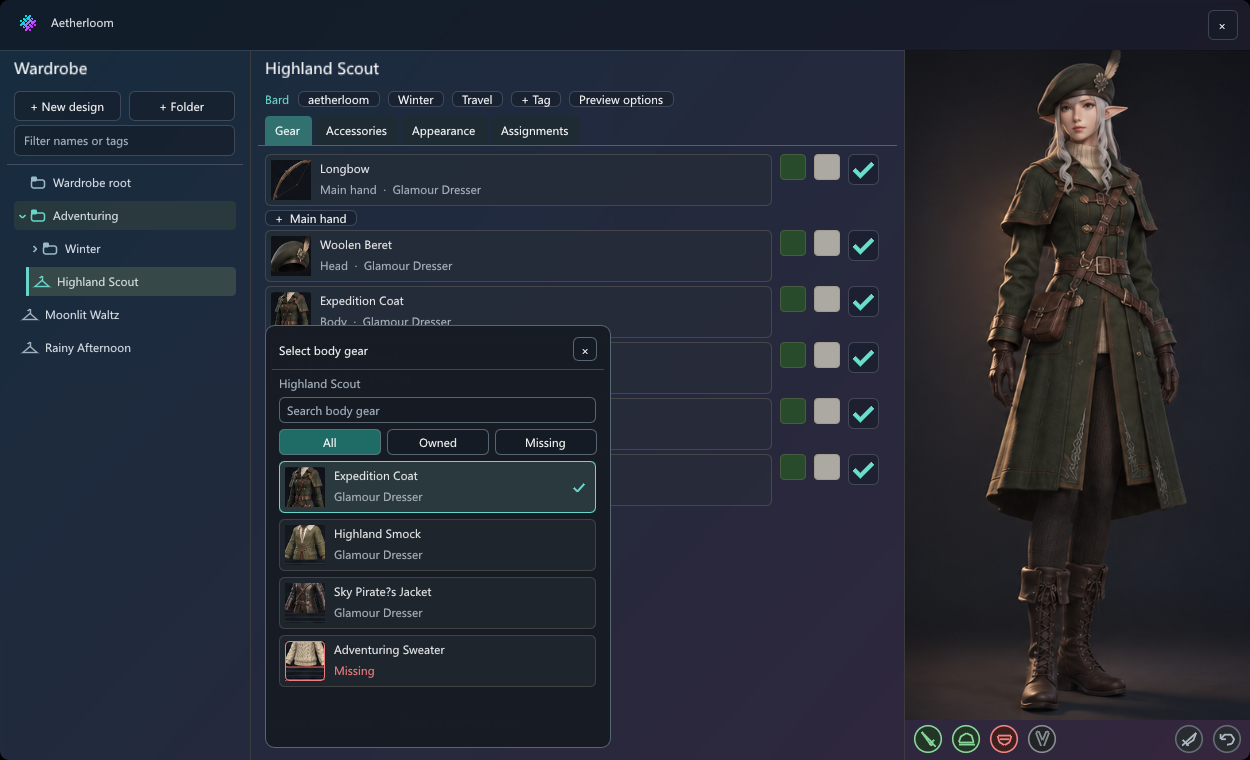
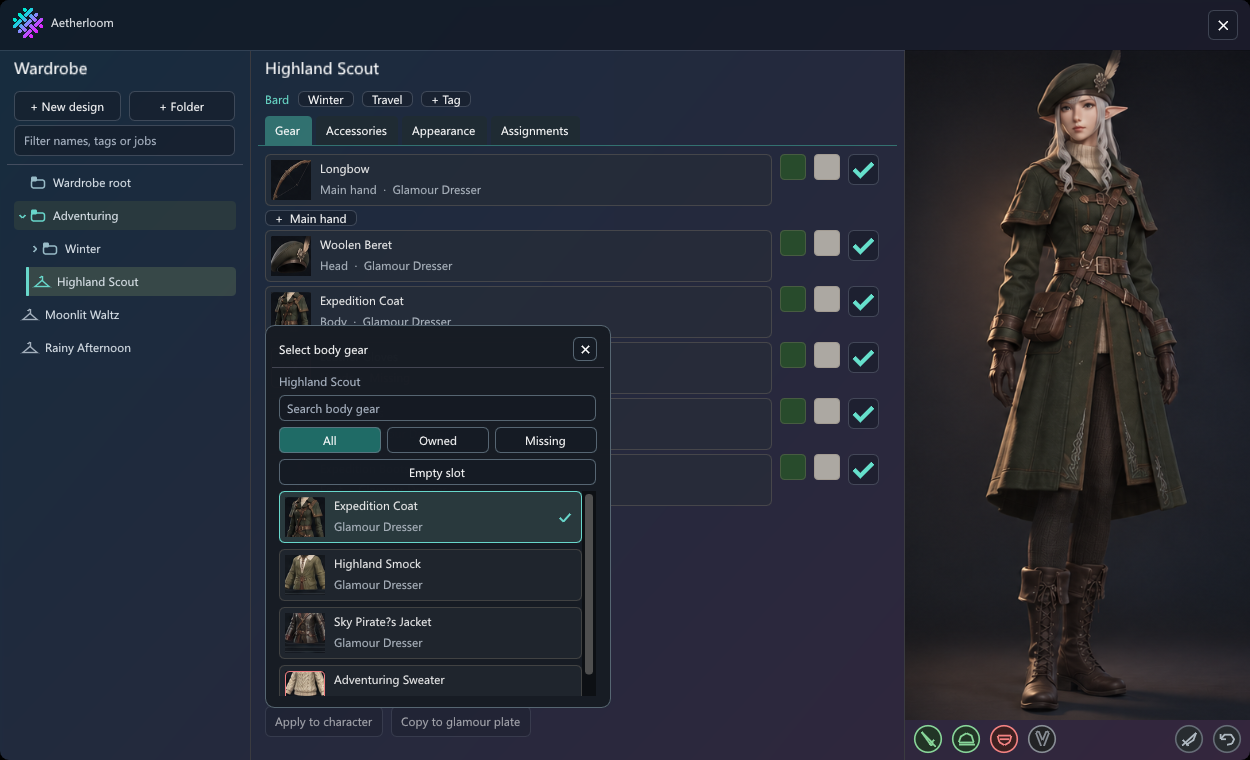
Polish shared picker controls and render wardrobe interactions

diff --git a/WardrobePreview/WardrobeFixture.cs b/WardrobePreview/WardrobeFixture.cs
@@ -13,8 +13,10 @@ internal sealed class WardrobeFixture:IWardrobe
     public WardrobeLayout Layout=null!;
     public ImTextureID? HeaderMark {get;}
     public Guid Selected{get;private set;}
-    public string Title=>designs.First(d=>d.Id==Selected).Name;
-    public string[] Tags=>designs.First(d=>d.Id==Selected).Tags;
+    public string Title=>designs.FirstOrDefault(d=>d.Id==Selected).Name??"";
+    public string[] Tags=>designs.FirstOrDefault(d=>d.Id==Selected).Tags??[];
+    public IReadOnlyList<string> KnownTags=>designs.SelectMany(d=>d.Tags).Distinct(StringComparer.OrdinalIgnoreCase).ToArray();
+    public IEnumerable<string> JobTerms(Guid id)=>["Bard","BRD"];
     public string Message=>"";
     private readonly List<string> folders=["[AL] Adventuring","[AL] Adventuring/Winter"];
     private readonly Dictionary<Guid,string> paths=[];
@@ -46,7 +48,8 @@ internal sealed class WardrobeFixture:IWardrobe
         }
         for(int i=0;i<3;i++)art[(uint)(120+i)]=Cut(items,587,528+i*83,60,60);
         foreach(var name in new[]{"Highland Scout","Rainy Afternoon","Winter Courier","Moonlit Waltz"})designs.Add((Guid.NewGuid(),name,["aetherloom","Winter","Travel"]));
-        Selected=designs[0].Id;paths[Selected]="[AL] Adventuring";paths[designs[2].Id]="[AL] Adventuring/Winter";
+        designs[1]=(designs[1].Id,designs[1].Name,["aetherloom","Casual","City"]);
+        Selected=designs[0].Id;assigned[("Jobs",1)]=Selected;assigned[("Zones",1)]=Selected;assigned[("Jobs",2)]=designs[1].Id;paths[Selected]="[AL] Adventuring";paths[designs[2].Id]="[AL] Adventuring/Winter";
         using var samples=typeof(WardrobeFixture).Assembly.GetManifestResourceStream("appearance-palette.bin")!;
         samples.ReadExactly(appearancePalette);
         using var stream=typeof(WardrobeFixture).Assembly.GetManifestResourceStream("stains.tsv")!;
@@ -83,14 +86,28 @@ internal sealed class WardrobeFixture:IWardrobe
         return folders.Remove(path);
     }
     public void MoveDesign(Guid id,string folder)=>paths[id]=folder;
+    public bool RenameDesign(Guid id,string name)
+    {
+        var index=designs.FindIndex(d=>d.Id==id);if(index<0)return false;
+        designs[index]=(id,name,designs[index].Tags);return true;
+    }
+    public bool DeleteDesign(Guid id)
+    {
+        if(designs.RemoveAll(d=>d.Id==id)==0)return false;
+        paths.Remove(id);
+        foreach(var entry in assigned.Where(a=>a.Value==id).ToArray())assigned.Remove(entry.Key);
+        if(Selected==id)Selected=designs.FirstOrDefault().Id;
+        return true;
+    }
     public void Tag(string tag,bool add){var i=designs.FindIndex(x=>x.Id==Selected);designs[i]=(Selected,Title,add?[..Tags,tag]:Tags.Where(x=>x!=tag).ToArray());}
     public IEnumerable<WardrobeSlot> Slots(bool accessories)=>rows.Where(x=>accessories==(x.Key is "Ears" or "Neck" or "Wrists" or "RFinger" or "LFinger"));
     public IEnumerable<WardrobeItem> Catalog(string key){
         var item=rows.First(r=>r.Key==key).Item;yield return item;
+        if(key!="Body")yield break;
         foreach(var (name,id) in new[]{("Highland Smock",22u),("Sky Pirate’s Jacket",23u),("Adventuring Sweater",25u)})yield return new(id,name,key=="Body"?(id==25?122u:id+98):item.Icon,2);
     }
     private void Change(string key,Func<WardrobeSlot,WardrobeSlot> change){int i=rows.FindIndex(x=>x.Key==key);rows[i]=change(rows[i]);}
-    public void SetItem(string key,uint id)=>Change(key,s=>s with{Item=Catalog(key).First(i=>i.Id==id)});
+    public void SetItem(string key,uint id)=>Change(key,s=>s with{Item=id==0?new(0,"Empty",0,0):Catalog(key).First(i=>i.Id==id),First=id==0?(byte)0:s.First,Second=id==0?(byte)0:s.Second,Apply=true});
     public void SetDye(string key,int channel,byte id)=>Change(key,s=>channel==0?s with{First=id}:s with{Second=id});
     public void SetApply(string key,bool apply)=>Change(key,s=>s with{Apply=apply});
     public void MainHand(string? remove){if(remove!=null)rows.RemoveAll(x=>x.Key==remove);else rows.Insert(1,new("MainHand/"+Guid.NewGuid(),"Main hand",new(0,"Empty",0,0),0,0,false));}
@@ -106,17 +123,18 @@ internal sealed class WardrobeFixture:IWardrobe
     public bool GroupEnabled(string group)=>enabled.Contains(group);
     public void SetGroupEnabled(string group,bool value){if(value)enabled.Add(group);else enabled.Remove(group);}
     public bool HasCharacter=>true;
-    private readonly Dictionary<string,HashSet<uint>> assigned=new(){["Jobs"]=[1],["Zones"]=[1]};
-    public IEnumerable<(uint Id,string Name)> AssignmentOptions(string type)=>type=="Jobs"?[(1,"Bard"),(2,"Dragoon")]:[(1,"Coerthas Central Highlands"),(2,"Old Gridania")];
-    public IReadOnlyCollection<uint> Assigned(string type)=>assigned[type];
-    public void Assign(string type,uint id,bool enable){if(enable)assigned[type].Add(id);else assigned[type].Remove(id);}
+    private readonly Dictionary<(string Type,uint Id),Guid> assigned=[];
+    public IEnumerable<(uint Id,string Name)> AssignmentOptions(string type)=>type=="Jobs"?[(1,"Bard (BRD)"),(2,"Dragoon (DRG)"),(3,"Warrior (WAR)")]:[(1,"Coerthas Central Highlands"),(2,"Old Gridania"),(3,"The Lavender Beds")];
+    public IReadOnlyCollection<uint> Assigned(string type)=>assigned.Where(p=>p.Key.Type==type && p.Value==Selected).Select(p=>p.Key.Id).ToArray();
+    public string? AssignmentOwner(string type,uint id)=>designs.FirstOrDefault(d=>d.Id==assigned.GetValueOrDefault((type,id))).Name;
+    public void Assign(string type,uint id,bool enable){if(enable)assigned[(type,id)]=Selected;else assigned.Remove((type,id));}
     public ISet<byte> FavoriteDyes{get;}=new HashSet<byte>{5,11,14,21,32};
     public void ToggleFavorite(byte id){if(!FavoriteDyes.Remove(id))FavoriteDyes.Add(id);}
     private readonly Dictionary<string,bool?> display=new(){["Weapon"]=true,["Hat"]=true,["Visor"]=false};
     public bool? DisplayOption(string key)=>display.GetValueOrDefault(key);
     public void ToggleDisplay(string key)=>display[key]=key=="Draw"?DisplayOption(key)!=true:DisplayOption(key) switch{null=>true,true=>false,false=>null};
     public void ResetCamera(){}
-    public void PreviewOptions(){}
+    public void WeaponSelector(){}
     public void DrawPreview(){
         uint id=Layout.Tab switch{"Appearance"=>101u,"Accessories"=>102u,_=>100u};
         float aspect=id==102?2f/3:.735f;

diff --git a/WardrobePreview/Program.cs b/WardrobePreview/Program.cs
@@ -47,9 +47,9 @@ internal sealed class RenderForm(string? scene,string? output):Form
     {
         if(surface==null||layout==null)return;
         var io=ImGui.GetIO();io.DisplaySize=new(ClientSize.Width,ClientSize.Height);io.DeltaTime=.025f;
-        if(scene=="folder-menu" && frame is 2 or 3)
+        if((scene is "folder-menu" or "design-menu") && frame is 2 or 3)
         {
-            io.AddMousePosEvent(84,215);
+            io.AddMousePosEvent(84,scene=="design-menu"?281:215);
             io.AddMouseButtonEvent(1,frame==2);
         }
         if(scene=="folder-drag")
@@ -60,14 +60,26 @@ internal sealed class RenderForm(string? scene,string? output):Form
             if(frame is 4 or 5)io.AddMousePosEvent(80,181);
             if(frame==6)io.AddMouseButtonEvent(0,false);
         }
+        if((scene is "clear-gear" or "clear-accessory") && frame is 5 or 6 or 7)
+        {
+            io.AddMousePosEvent(430,scene=="clear-gear"?473:357);
+            if(frame>=6)io.AddMouseButtonEvent(0,frame==6);
+        }
         ImGui.NewFrame();ImGui.SetNextWindowPos(Vector2.Zero);ImGui.SetNextWindowSize(io.DisplaySize);
         WindowShell.PushHostStyle();ImGui.Begin("Aetherloom",WindowShell.HostFlags|ImGuiWindowFlags.NoResize|ImGuiWindowFlags.NoMove);WindowShell.PopHostStyle();
-        if(frame is 1 or 2)layout.Show(scene switch{"hair" or "paint" or "colors" or "appearance"=>"Appearance","accessories"=>"Accessories","assignments"=>"Assignments",_=>"Gear"},
-            scene switch{"dye" or "dye-neutral"=>"Body-dye0","colors"=>"HairColor","items"=>"Body","hair"=>"Hairstyle","paint"=>"FacePaint",_=>null});
+        if(frame is 1 or 2)layout.Show(scene switch{"hair" or "paint" or "colors" or "appearance"=>"Appearance","accessories" or "earrings" or "clear-accessory"=>"Accessories","assignments" or "jobs" or "zones"=>"Assignments",_=>"Gear"},
+            scene switch{"tags"=>"add-tag","jobs"=>"Jobs","zones"=>"Zones","dye" or "dye-neutral"=>"Body-dye0","colors"=>"HairColor","items" or "clear-gear"=>"Body","earrings" or "clear-accessory"=>"Ears","hair"=>"Hairstyle","paint"=>"FacePaint",_=>null});
         layout.Draw(()=>BeginInvoke(Close));ImGui.End();ImGui.Render();surface.Paint(ClientSize.Width,ClientSize.Height);
-        if(++frame==(scene=="folder-drag"?9:6) && output!=null){
+        if(++frame==(scene is "folder-drag" or "clear-gear" or "clear-accessory"?9:6) && output!=null){
             if(scene=="folder-drag" && !fixture!.Folders.Contains("[AL] Winter"))
                 throw new InvalidOperationException("Dropping Winter onto the root did not promote it.");
+            if(scene is "clear-gear" or "clear-accessory")
+            {
+                bool accessory=scene=="clear-accessory";
+                var slot=fixture!.Slots(accessory).Single(s=>s.Key==(accessory?"Ears":"Body"));
+                if(slot.Item.Id!=0 || slot.First!=0 || slot.Second!=0 || !slot.Apply)
+                    throw new InvalidOperationException("Empty slot should clear the item and both dyes and enable application.");
+            }
             surface.Capture(output,ClientSize.Width,ClientSize.Height);BeginInvoke(Close);}
     }
     protected override void OnMouseMove(MouseEventArgs e){if(surface!=null)ImGui.GetIO().AddMousePosEvent(e.X,e.Y);}

diff --git a/Library/WorkspaceControls.cs b/Library/WorkspaceControls.cs
@@ -191,12 +191,32 @@ public static class WorkspaceControls
     {
         ImGui.EndPopup();PopPickerStyle();
     }
+    public static bool CloseButton(string id,float side,string hint)
+    {
+        bool clicked=ImGui.Button("###"+id,new Vector2(side));
+        var center=(ImGui.GetItemRectMin()+ImGui.GetItemRectMax())*.5f;
+        float extent=side*.15f;
+        var dl=ImGui.GetWindowDrawList();
+        var diagonal=new Vector2(extent);
+        dl.AddLine(center-diagonal,center+diagonal,ImGui.GetColorU32(ImGuiCol.Text),1.5f*Scale);
+        diagonal.X=-extent;
+        dl.AddLine(center-diagonal,center+diagonal,ImGui.GetColorU32(ImGuiCol.Text),1.5f*Scale);
+        if(ImGui.IsItemHovered())ImGui.SetTooltip(hint);
+        return clicked;
+    }
+
     public static void PickerHeading(string title)
     {
         var right=ImGui.GetCursorPosX()+ImGui.GetContentRegionAvail().X;
-        ImGui.AlignTextToFramePadding();ImGui.TextUnformatted(title);
-        ImGui.SameLine();ImGui.SetCursorPosX(right-24*Scale);
-        if(ImGui.Button("\u00d7##close",new Vector2(24*Scale)))ImGui.CloseCurrentPopup();
+        var origin=ImGui.GetCursorScreenPos();
+        float height=24*Scale;
+        var end=origin+new Vector2(ImGui.GetContentRegionAvail().X-height-5*Scale,height);
+        var dl=ImGui.GetWindowDrawList();
+        dl.PushClipRect(origin,end,true);
+        dl.AddText(origin+new Vector2(0,(height-ImGui.GetTextLineHeight())/2),ImGui.GetColorU32(ImGuiCol.Text),title);
+        dl.PopClipRect();
+        ImGui.SetCursorPosX(right-height);
+        if(CloseButton("close",height,"Close picker"))ImGui.CloseCurrentPopup();
         ImGui.Separator();
     }
 

diff --git a/Library/WindowShell.cs b/Library/WindowShell.cs
@@ -116,8 +116,7 @@ public sealed class WindowShell
             if(Close!=null)
             {
                 ImGui.SetCursorScreenPos(p+new Vector2(size.X-42*scale,10*scale));
-                if(ImGui.Button("×###close",new Vector2(30*scale,30*scale)))Close();
-                if(ImGui.IsItemHovered())ImGui.SetTooltip("Close window");
+                if(WorkspaceControls.CloseButton("close",30*scale,"Close window"))Close();
             }
             var active=pages.FirstOrDefault(x=>x.Id==Selected)??pages[0];
             if (ShowIconRail)
